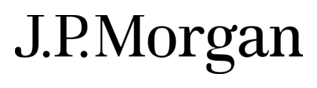
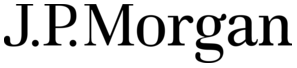
Prospectus alumni firms: order by prestige, enlarge Dare, Berenberg, J.P. Morgan
Recropped the three logos tight to their marks (the sources still had
transparent padding, which shrank them under the fixed-height CSS) and
retuned their heights. Order now runs bulge bracket, elite fund, then
banks and trading firms.

Changed region(s): [[0.0, 0.0588, 1.0, 0.9412]]

diff --git a/prospectus/index.html b/prospectus/index.html
@@ -529,10 +529,10 @@
     .destinations img[alt="Barclays"] { height: 24px; }
     .destinations img[alt="Millennium Management"],
     .destinations img[alt="Glencore"] { height: 24px; }
-    .destinations img[alt="Dare Trading"] { height: 34px; }
-    .destinations img[alt="Berenberg"] { height: 46px; }
+    .destinations img[alt="Dare Trading"] { height: 28px; }
+    .destinations img[alt="Berenberg"] { height: 64px; }
     .destinations img[alt="Investec"] { height: 28px; }
-    .destinations img[alt="J.P. Morgan"] { height: 26px; }
+    .destinations img[alt="J.P. Morgan"] { height: 30px; }
     .destinations img[alt="Morgan Stanley"] { height: 28px; }
     .spon__more {
       display: inline-flex; gap: 6px; margin-top: var(--space-4);
@@ -750,16 +750,16 @@
         <p class="destinations__note">Firms our alumni have joined</p>
         <ul class="destinations">
           <li><img src="assets/img/alumni-firms/goldman-sachs.webp" alt="Goldman Sachs" loading="lazy" /></li>
-          <li><img src="assets/img/alumni-firms/citi.webp" alt="Citi" loading="lazy" /></li>
-          <li><img src="assets/img/alumni-firms/barclays.png" alt="Barclays" loading="lazy" /></li>
-          <li><img src="assets/img/alumni-firms/millennium.png" alt="Millennium Management" loading="lazy" /></li>
-          <li><img src="assets/img/alumni-firms/glencore.webp" alt="Glencore" loading="lazy" /></li>
-          <li><img src="assets/img/alumni-firms/standard-chartered.webp" alt="Standard Chartered" loading="lazy" /></li>
-          <li><img src="assets/img/alumni-firms/dare.png" alt="Dare Trading" loading="lazy" /></li>
-          <li><img src="assets/img/alumni-firms/berenberg.png" alt="Berenberg" loading="lazy" /></li>
-          <li><img src="assets/img/alumni-firms/investec.png" alt="Investec" loading="lazy" /></li>
           <li><img src="assets/img/alumni-firms/jp-morgan.png" alt="J.P. Morgan" loading="lazy" /></li>
           <li><img src="assets/img/alumni-firms/morgan-stanley.png" alt="Morgan Stanley" loading="lazy" /></li>
+          <li><img src="assets/img/alumni-firms/millennium.png" alt="Millennium Management" loading="lazy" /></li>
+          <li><img src="assets/img/alumni-firms/citi.webp" alt="Citi" loading="lazy" /></li>
+          <li><img src="assets/img/alumni-firms/barclays.png" alt="Barclays" loading="lazy" /></li>
+          <li><img src="assets/img/alumni-firms/glencore.webp" alt="Glencore" loading="lazy" /></li>
+          <li><img src="assets/img/alumni-firms/standard-chartered.webp" alt="Standard Chartered" loading="lazy" /></li>
+          <li><img src="assets/img/alumni-firms/berenberg.png" alt="Berenberg" loading="lazy" /></li>
+          <li><img src="assets/img/alumni-firms/investec.png" alt="Investec" loading="lazy" /></li>
+          <li><img src="assets/img/alumni-firms/dare.png" alt="Dare Trading" loading="lazy" /></li>
         </ul>
         <a class="spon__more" href="/alumni/">See the alumni directory <span aria-hidden="true">&rarr;</span></a>
       </section>
